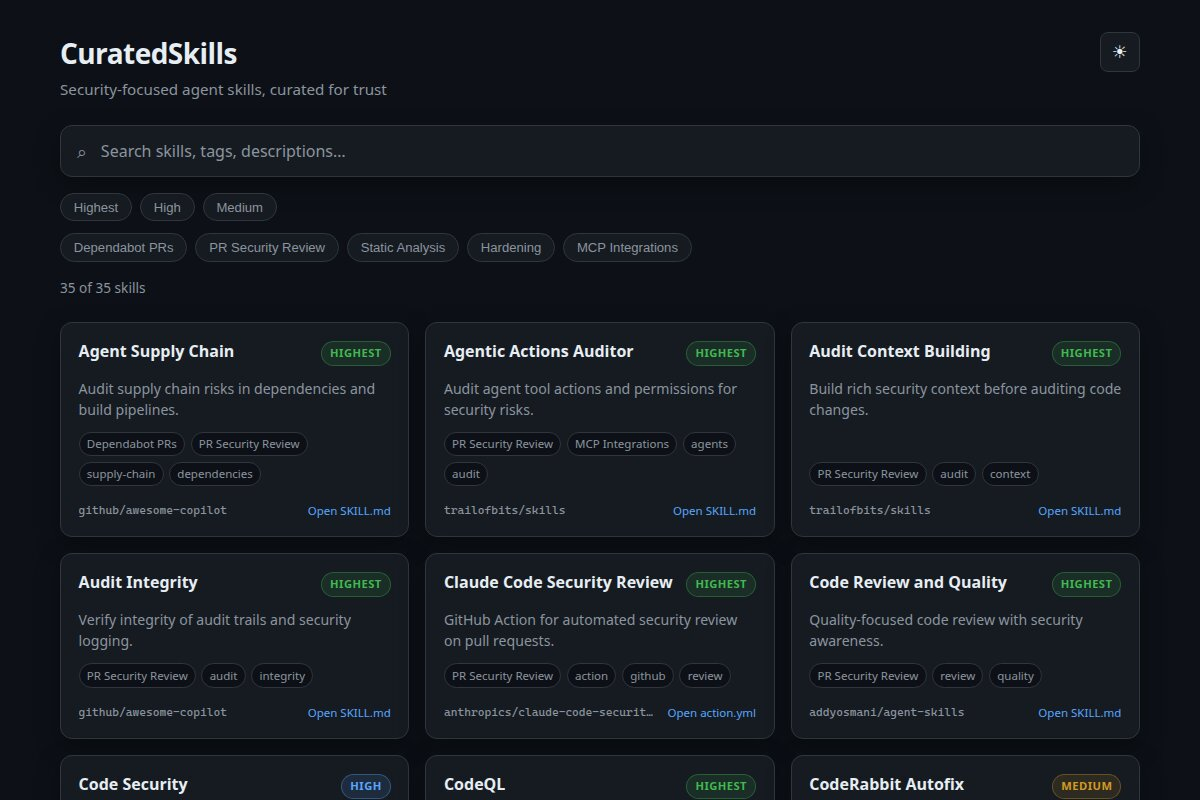
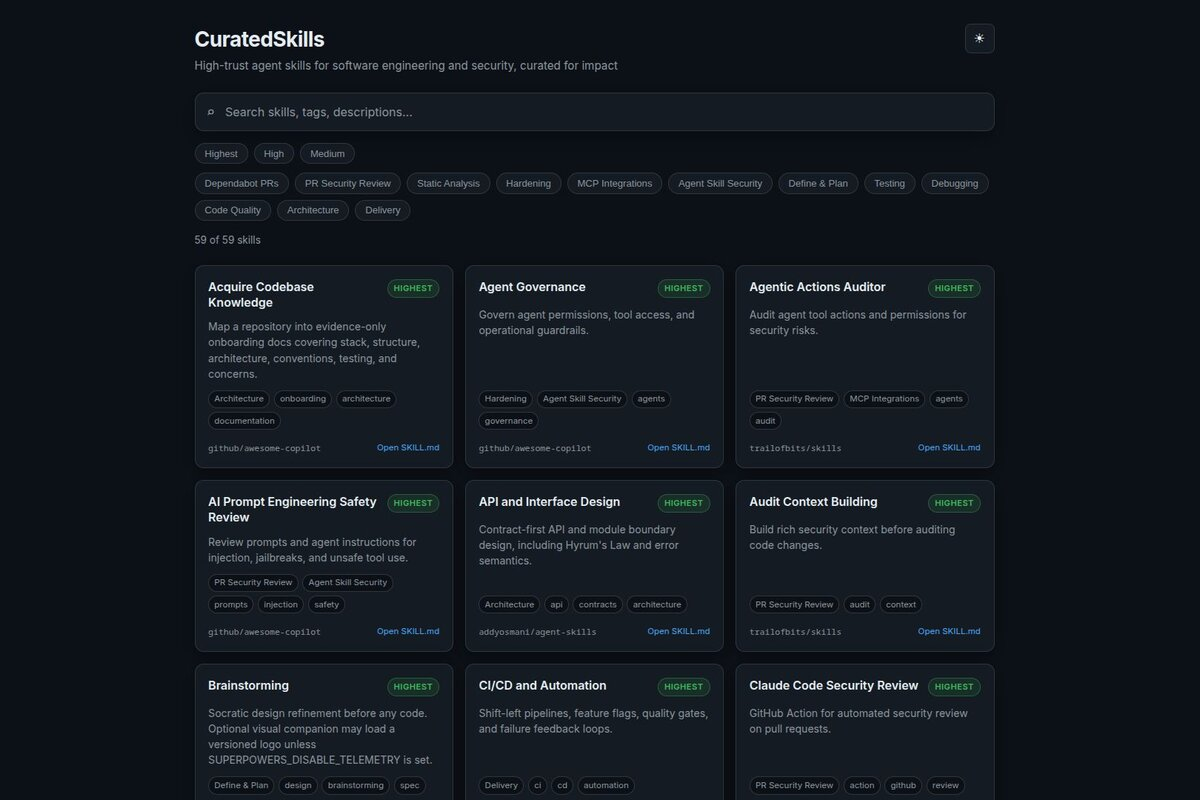
Refresh CuratedSkills post for v1.2.0 scope and image.
- Widen catalog copy from security-only to high-trust engineering and security skills.
- Add the spec-driven-development tag and Node.js 20+ stack note.
- Clarify folder-URL derivation, build validation, and v1.2.0 catalog coverage.
- Update the CuratedSkills teaser image.

diff --git a/_posts/2026-06-09-Curated-Coding-Agent-Skills.md b/_posts/2026-06-09-Curated-Coding-Agent-Skills.md
@@ -1,6 +1,6 @@
 ---
 title: "A Searchable Registry of Coding-Agent Skills"
-excerpt: "A curated, security-focused catalog of coding-agent skills with fast full-text search — built as a zero-backend static site."
+excerpt: "A high-trust catalog of software-engineering and security agent skills with fast full-text search — built as a zero-backend static site."
 header:
   teaser: /assets/images/curatedskills.jpg
 tags:
@@ -9,24 +9,25 @@ tags:
   - static-site
   - coding-agents
   - security
+  - spec-driven-development
 ---
 
 ## A Searchable Registry of Coding-Agent Skills
 
-> **TL;DR** — I built [CuratedSkills](https://github.com/jahnog/CuratedSkills): a hand-curated registry of security-focused coding-agent skills — things like reviewing Dependabot PRs, running static analysis, and wiring up security MCP servers — with a fast, minimalistic full-text search, served as a fully static site.
+> **TL;DR** — I built [CuratedSkills](https://github.com/jahnog/CuratedSkills): a hand-curated registry of high-trust agent skills for **software engineering and security** — specs, tests, review, delivery, Dependabot PRs, static analysis, and security MCP servers — with a fast, minimalistic full-text search, served as a fully static site.
 >
-> **Stack** — Node.js, JavaScript, MiniSearch, YAML, GitHub Pages, GitHub Actions
+> **Stack** — Node.js 20+, JavaScript, MiniSearch, YAML, GitHub Pages, GitHub Actions
 >
 > **Links** — [Live search](https://jahnog.github.io/CuratedSkills/) · [Source](https://github.com/jahnog/CuratedSkills)
 
 ![CuratedSkills search UI](/assets/images/curatedskills.jpg)
 
-As coding agents took off, the *skills* that extend them — small, reusable capability definitions — started piling up across scattered repositories with no good way to find the trustworthy ones. CuratedSkills is my answer: a small, opinionated registry focused on **security** skills, with a search box that actually makes the catalog usable.
+As coding agents took off, the *skills* that extend them — small, reusable capability definitions — started piling up across scattered repositories with no good way to find the trustworthy ones. CuratedSkills is my answer: an opinionated registry of **high-trust** skills for software engineering *and* security, with a search box that actually makes the catalog usable.
 
-The content is a **human-edited YAML catalog** — `skills.yaml`, `repositories.yaml`, and supporting `trust-tiers.yaml` and `categories.yaml` — so every entry is deliberately curated and tagged with a trust tier (highest / high / medium) and a category. The interesting engineering is how that becomes a searchable site without any server. A Node.js build pipeline fetches each skill's actual content from its source repository, builds a [MiniSearch](https://github.com/lucaong/minisearch) full-text index at **build time**, and emits it as a static `index.json` alongside a minimal, dark-first UI. The result deploys to GitHub Pages through a GitHub Actions workflow, and search runs entirely in the browser against the prebuilt index — **no backend, no database, nothing to keep running**, which is exactly what a static-hosted catalog should be.
+The content is a **human-edited YAML catalog** — `skills.yaml`, `repositories.yaml`, and supporting `trust-tiers.yaml` and `categories.yaml` — so every entry is deliberately curated and tagged with a trust tier (highest / high / medium) and a category. Navigation always opens the **skill's folder** on GitHub, with a secondary link to its primary file (`SKILL.md`, `README.md`, or `action.yml`). Those folder URLs are *derived* from the file URLs at build time rather than hand-authored, so they cannot drift out of sync.
 
-A few design choices kept it honest. Navigation always opens the **skill's folder** on GitHub, with a secondary link to its primary file (`SKILL.md`, `README.md`, or `action.yml`) — and those folder URLs are *derived* from the file URLs at build time rather than hand-authored, so they can't drift out of sync. The build also **validates** the catalog schema and checks that every remote file URL still resolves, so a broken or moved skill is caught when the index is generated instead of by a visitor hitting a dead link.
+The interesting engineering is how that becomes a searchable site without any server. A Node.js build pipeline validates the catalog schema and checks that every remote file URL still resolves, fetches each skill's actual content from its source repository, builds a [MiniSearch](https://github.com/lucaong/minisearch) full-text index at **build time**, and emits it as a static `index.json` alongside a minimal, dark-first UI. The result deploys to GitHub Pages through a GitHub Actions workflow, and search runs entirely in the browser against the prebuilt index — **no backend, no database, nothing to keep running**.
 
-It's a deliberately small project, but it captures a pattern I like: push all the heavy lifting into a build step so the thing you ship stays trivially cheap to host and fast to use.
+v1.2.0 widened the catalog beyond Dependabot, SAST, and MCP. It now covers **Define & Plan**, testing, debugging, code quality, architecture, and delivery — Superpowers TDD, GitHub Spec Kit, OpenSpec, Addy Osmani's spec-driven and incremental-implementation skills — next to Trail of Bits review tooling, NVIDIA SkillSpector, Semgrep, and the rest. Lower-fit and medium-trust sources were pruned so the list stays small and opinionated. The live search is the inventory; the site is just the cheapest way to keep it findable.
 
 [Try the live search](https://jahnog.github.io/CuratedSkills/) · [Source on GitHub](https://github.com/jahnog/CuratedSkills)
